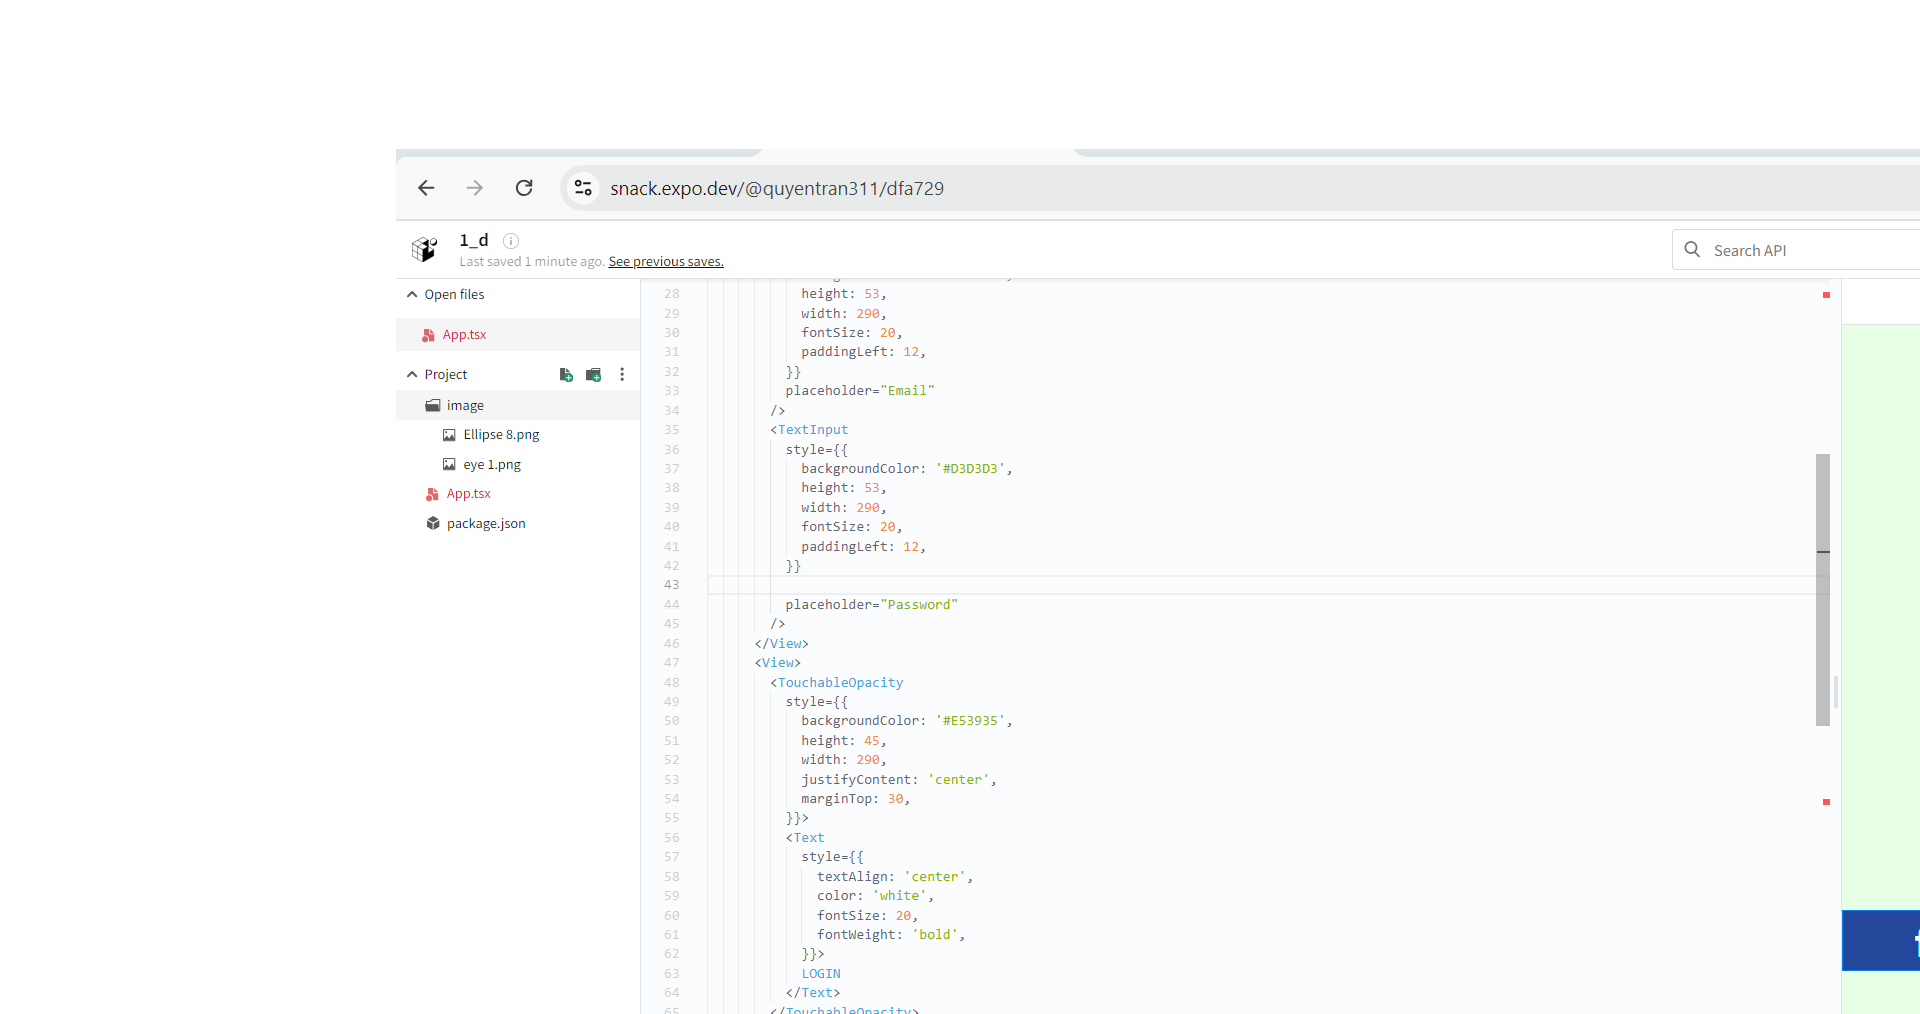
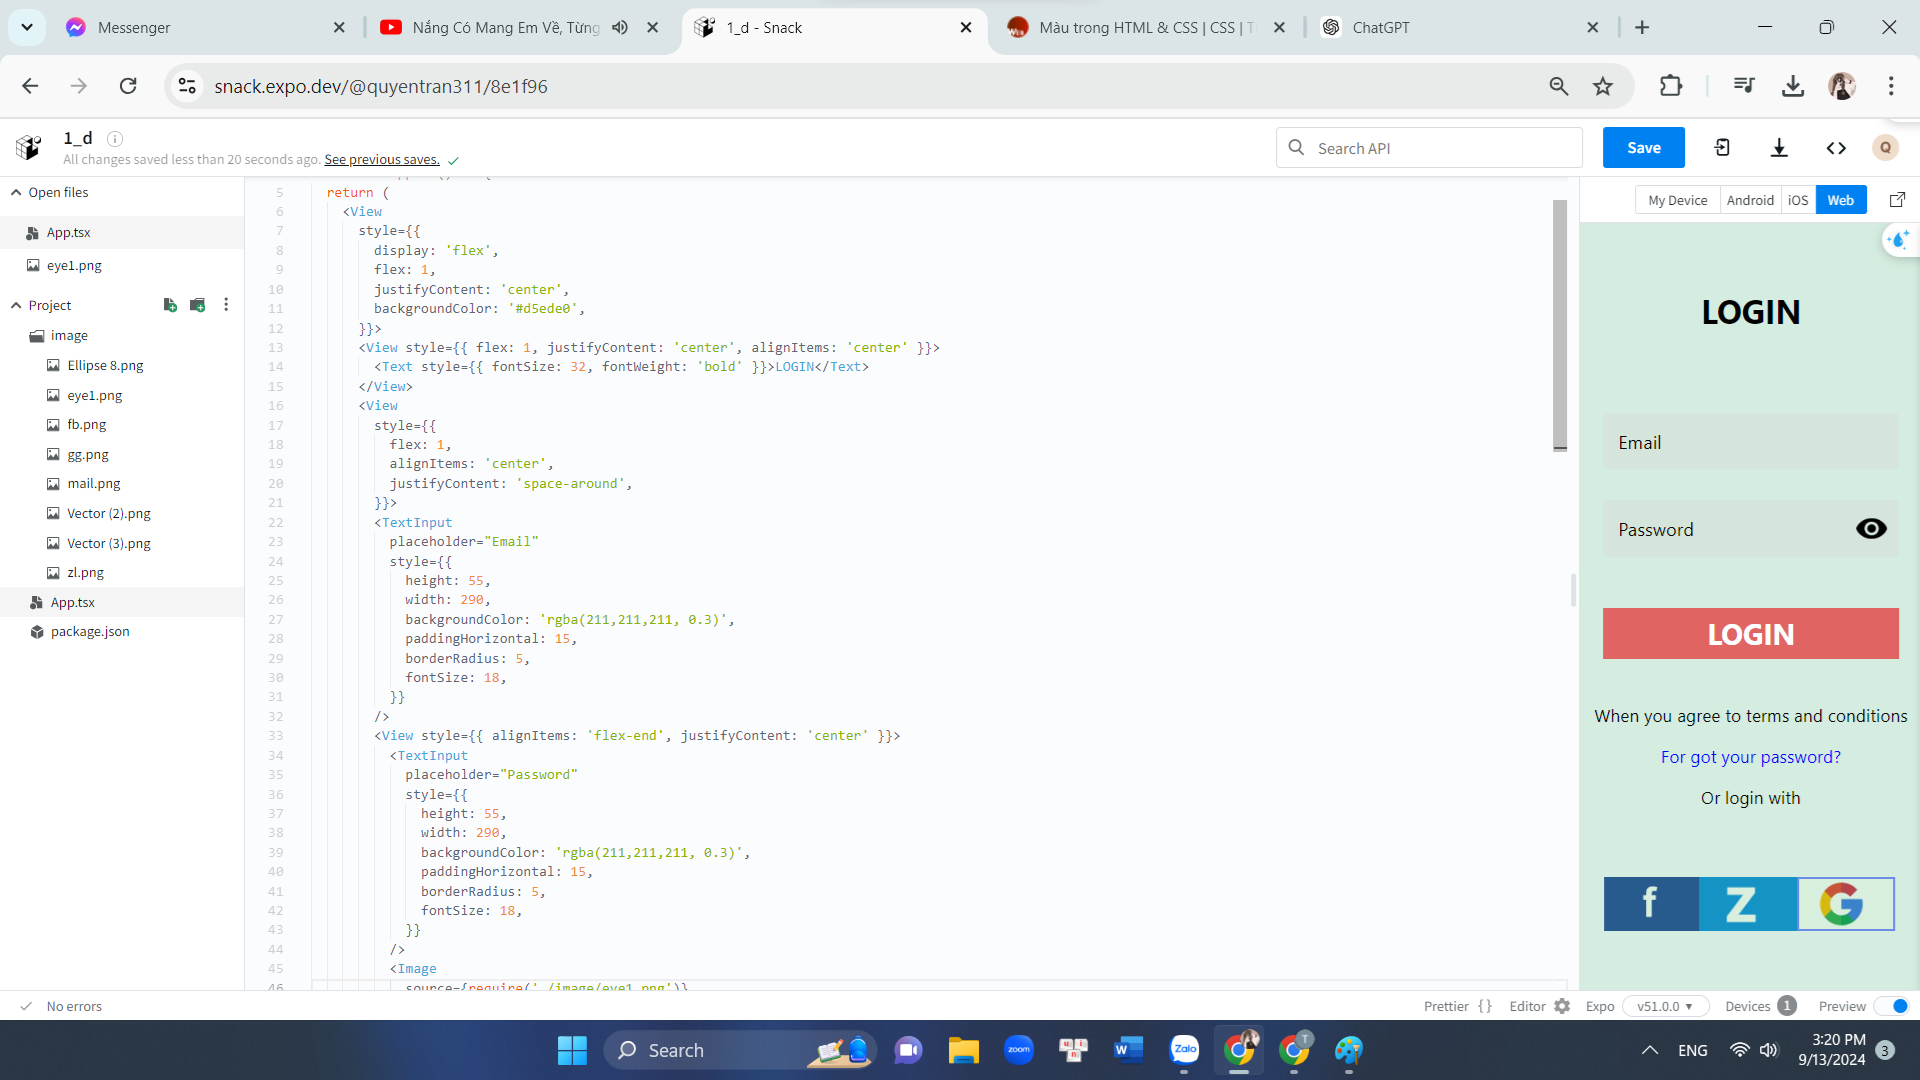
screen 1_d

diff --git a/1_d/App.tsx b/1_d/App.tsx
@@ -1,64 +1,73 @@
 import React from 'react';
-import { Text, View, Image, TouchableOpacity, TextInput } from 'react-native';
-import { Entypo, FontAwesome } from '@expo/vector-icons';
+import { Text, View, TouchableOpacity, Image, TextInput } from 'react-native';
 
 const YourApp = () => {
   return (
     <View
       style={{
+        display: 'flex',
         flex: 1,
         justifyContent: 'center',
-        alignItems: 'center',
-        backgroundColor: '#E6FFE6',
+        backgroundColor: '#d5ede0',
       }}>
       <View style={{ flex: 1, justifyContent: 'center', alignItems: 'center' }}>
-        <Text style={{ fontSize: 35, textAlign: 'center', fontWeight: 'bold' }}>
-          LOGIN
-        </Text>
+        <Text style={{ fontSize: 32, fontWeight: 'bold' }}>LOGIN</Text>
       </View>
       <View
         style={{
-          flex: 2,
-          flexDirection: 'column',
-          justifyContent: 'space-evenly',
+          flex: 1,
+          alignItems: 'center',
+          justifyContent: 'space-around',
         }}>
         <TextInput
-          style={{
-            backgroundColor: '#D3D3D3',
-            height: 53,
-            width: 290,
-            fontSize: 20,
-            paddingLeft: 12,
-          }}
           placeholder="Email"
-        />
-        <TextInput
           style={{
-            backgroundColor: '#D3D3D3',
-            height: 53,
+            height: 55,
             width: 290,
-            fontSize: 20,
-            paddingLeft: 12,
+            backgroundColor: 'rgba(211,211,211, 0.3)',
+            paddingHorizontal: 15,
+            borderRadius: 5,
+            fontSize: 18,
           }}
-          
-          placeholder="Password"
         />
+        <View style={{ alignItems: 'flex-end', justifyContent: 'center' }}>
+          <TextInput
+            placeholder="Password"
+            style={{
+              height: 55,
+              width: 290,
+              backgroundColor: 'rgba(211,211,211, 0.3)',
+              paddingHorizontal: 15,
+              borderRadius: 5,
+              fontSize: 18,
+            }}
+          />
+          <Image
+            source={require('./image/eye1.png')}
+            style={{
+              position: 'absolute',
+              height: 20,
+              width: 30,
+              marginRight: 12,
+            }}
+          />
+        </View>
       </View>
-      <View>
+      <View
+        style={{ flex: 0.7, justifyContent: 'center', alignItems: 'center' }}>
         <TouchableOpacity
           style={{
-            backgroundColor: '#E53935',
-            height: 45,
-            width: 290,
+            backgroundColor: '#e06462',
             justifyContent: 'center',
-            marginTop: 30,
+            height: 50,
+            width: 290,
           }}>
           <Text
             style={{
-              textAlign: 'center',
-              color: 'white',
-              fontSize: 20,
+              fontSize: 28,
               fontWeight: 'bold',
+              color: 'white',
+              textAlign: 'center',
             }}>
             LOGIN
           </Text>
@@ -66,57 +75,58 @@ const YourApp = () => {
       </View>
       <View
         style={{
-          flex: 1,
-          flexDirection: 'column',
-          justifyContent: 'space-evenly',
+          flex: 0.7,
+          justifyContent: 'space-around',
           alignItems: 'center',
         }}>
-        <Text style={{ fontSize: 15 }}>
+        <Text style={{ fontSize: 17 }}>
           When you agree to terms and conditions
         </Text>
-        <Text style={{color: 'blue'}}>For got your password?</Text>
-        <Text>Or login with</Text>
+        <Text style={{ color: 'blue', fontSize: 17 }}>
+          For got your password?
+        </Text>
+        <Text style={{ fontSize: 17 }}>Or login with</Text>
       </View>
       <View
         style={{
-          height: '60px',
-          width: '100%',
-          marginTop: 20,
+          flex: 1,
           flexDirection: 'row',
-          borderWidth: 1,
-          borderColor: '#0680F1',
+          justifyContent: 'center',
+          alignItems: 'center',
         }}>
         <View
           style={{
-            flex: 1,
-            alignItems: 'center',
+            height: 50,
+            width: 90,
             justifyContent: 'center',
-            backgroundColor: '#25479B',
+            alignItems: 'center',
           }}>
-         <Text style={{ fontWeight: 'bold', fontSize: 40, color: '#fff' }}>f</Text>
+          <Image
+            source={require('./image/fb.png')}
+            style={{ height: 53, width: 96 }}
+          />
+        </View>
+        <View>
+          <Image
+            source={require('./image/zl.png')}
+            style={{ height: 53, width: 96 }}
+          />
         </View>
         <View
           style={{
-            flex: 1,
-            alignItems: 'center',
+            height: 53,
+            width: 96,
             justifyContent: 'center',
-            backgroundColor: '#0F8EE0',
-          }}>
-          <Text style={{ fontWeight: 'bold', fontSize: 40, color: '#fff' }}>
-            Z
-          </Text>
-        </View>
-        <View
-          style={{
-            flex: 1,
             alignItems: 'center',
-            justifyContent: 'center',
-            backgroundColor: '',
+            borderColor: '#6b8dea',
+            borderWidth:2
           }}>
-         <Text style={{fontWeight: 'bold', fontSize: 40, color: 'black'}}>G</Text>
+          <Image
+            source={require('./image/gg.png')}
+            style={{ height: 49, width: 90 }}
+          />
         </View>
       </View>
-      <View style={{ flex: 1 }}></View>
     </View>
   );
 };
